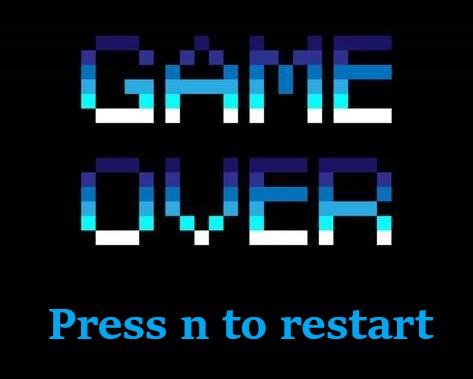
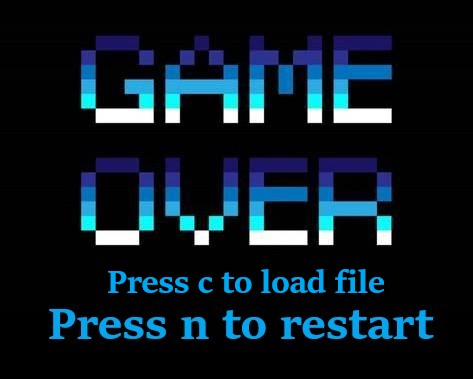
Implementacion final

Changed region(s): [[0.2072, 0.6966, 0.8288, 0.7836]]

diff --git a/Breaking Bad/src/tarea3/Game.java b/Breaking Bad/src/tarea3/Game.java
@@ -43,7 +43,7 @@ public class Game implements Runnable {
     private int vidas;                  // oportunidades de que la bola caiga
     private int noTrucks;               // to store number of trucks
     public int Trucks;                  // to store trucks
-    public boolean win = false;         // to send a win message
+    public boolean finished;            // to start the game over
     public boolean pause;               // to pause the game
     public int pauseStun = 0;           // to pause
     private String nombreArchivo = "partida.sf";
@@ -62,8 +62,6 @@ public class Game implements Runnable {
         running = false;
         keyManager = new KeyManager();
         mouseManager = new MouseManager();
-        vidas = 5;
-        noTrucks = 50;
     }
     
     /**
@@ -75,6 +73,11 @@ public class Game implements Runnable {
         player = new Player(0, getHeight() - 30, 1, 150, 20, this);
         proyectil = new Proyectil(50,350,DiagDirection.UPRIGHT,50,50,this);
         pause = false;
+        finished = false;
+        vidas = 5;
+        noTrucks = 50;
+        
+        System.out.println("Wenas");
         
         // creando nuestros camiones
         camiones = new LinkedList<Bad>();
@@ -120,7 +123,7 @@ public class Game implements Runnable {
         paredes[0] = new Rectangle2D.Double(getWidth()-padding,padding,padding,getHeight()-2*padding);
         paredes[1] = new Rectangle2D.Double(padding,0,getWidth()-2*padding,padding);
         paredes[2] = new Rectangle2D.Double(0,padding,padding,getHeight()-2*padding);
-        paredes[3] = new Rectangle2D.Double(padding,getHeight()-padding,getWidth()-2*padding,padding);
+        paredes[3] = new Rectangle2D.Double(padding,getHeight()-padding+60,getWidth()-2*padding,padding);
         return paredes;
     }
     
@@ -201,6 +204,26 @@ public class Game implements Runnable {
         
         keyManager.tick();
         
+        if (finished) {
+            if (getKeyManager().n) {
+                this.init();
+            }
+            if (getKeyManager().c) {
+                finished = false;
+                try {
+                    leeArchivo();
+                } catch (IOException ex) {
+                    Logger.getLogger(Game.class.getName()).log(Level.SEVERE, null, ex);
+                }
+                pause = true;
+            }
+            return;
+        }
+        
+        if (noTrucks<=0 || vidas<=0) {
+            finished = true;
+        }
+        
         if(pauseStun>0){
             pauseStun--;
         }
@@ -227,7 +250,7 @@ public class Game implements Runnable {
             } catch (IOException ex) {
                 Logger.getLogger(Game.class.getName()).log(Level.SEVERE, null, ex);
             }
-            
+            pause = true;
         }
         
         // avancing player and bad with walls collision
@@ -308,61 +331,27 @@ public class Game implements Runnable {
         } else {
             
             g = bs.getDrawGraphics();
-
-            if (getNoTrucks()==0 && getVidas()>0) {
-                g.drawImage(Assets.gameWin, 0, 0, width, height, null);
-                bs.show();
-                g.dispose(); 
-                win = true;
-
-                if(getKeyManager().n) {
-                    vidas = 6;
-                    noTrucks = camiones.size();
-                    win = false;
-                    init();
+            
+            if (finished) {
+                if (noTrucks<=0) {
+                    // Significa que ganamos
+                    g.drawImage(Assets.gameWin, 0, 0, width, height, null);
+                } else {
+                    // Significa que perdimos
+                    g.drawImage(Assets.gameOver, 0, 0, width, height, null);
                 }
-            }
-
-            else if (getVidas() > 0) {
-
+            }  else {
                 g.drawImage(Assets.background, 0, 0, width, height, null);
                 player.render(g);
-
                 for(Bad camion : camiones){
                     camion.render(g);
                 }
-
                 proyectil.render(g);
-
-                bs.show();
-                g.dispose();
             }
-            else if (!win){
-                g.drawImage(Assets.gameOver, 0, 0, width, height, null);
-                bs.show();
-                g.dispose();
-
-                if(getKeyManager().n) { 
-                    vidas = 6;
-                    noTrucks = 50;
-                    win = false;
-                    init();
-                }
-            }
-        }
-        
-        if (getNoTrucks() <= 0) {
-            g.drawImage(Assets.gameOver, 0, 0, width, height, null);
+            
             bs.show();
             g.dispose();
-            
-            int i=0;
-            while (i < 100) {
-                
-                i++;
-            } 
         }
-
     }
 
     /**

diff --git a/Breaking Bad/src/tarea3/Proyectil.java b/Breaking Bad/src/tarea3/Proyectil.java
@@ -190,9 +190,9 @@ public class Proyectil extends Item{
                         // Finalizar el juego
                         game.setVidas(game.getVidas()-1);
                         x = game.getPlayer().getX() + game.getPlayer().getWidth()/2;
-                        y = game.getPlayer().getY() - 30;
+                        y = game.getPlayer().getY() - 50;
                         direction = DiagDirection.UPRIGHT;
-                        stun = 100;
+                        stun = 50;
                         break;
                 }
             }
